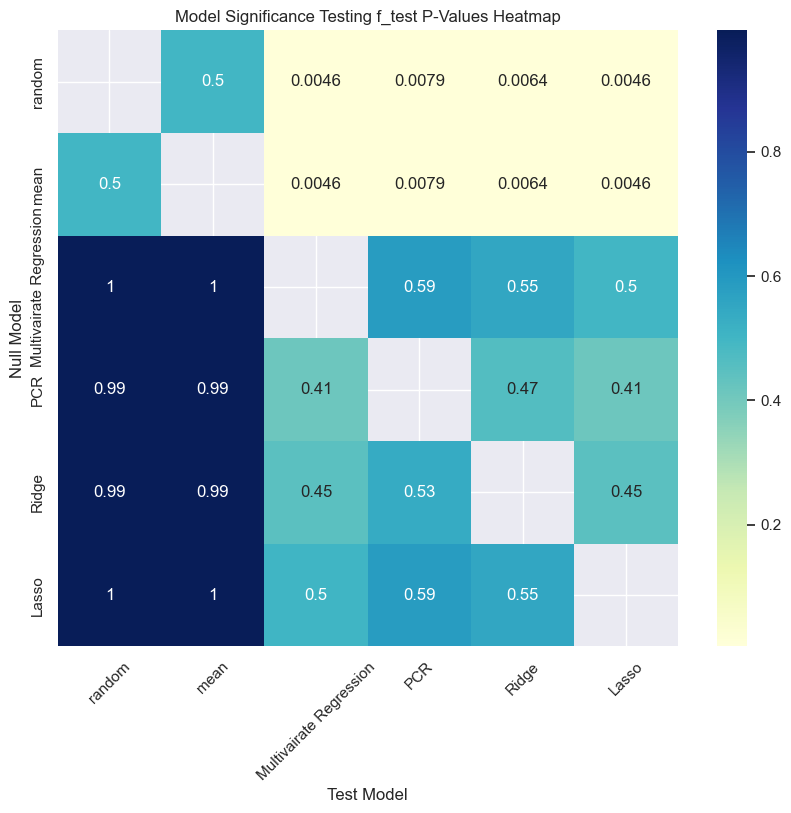
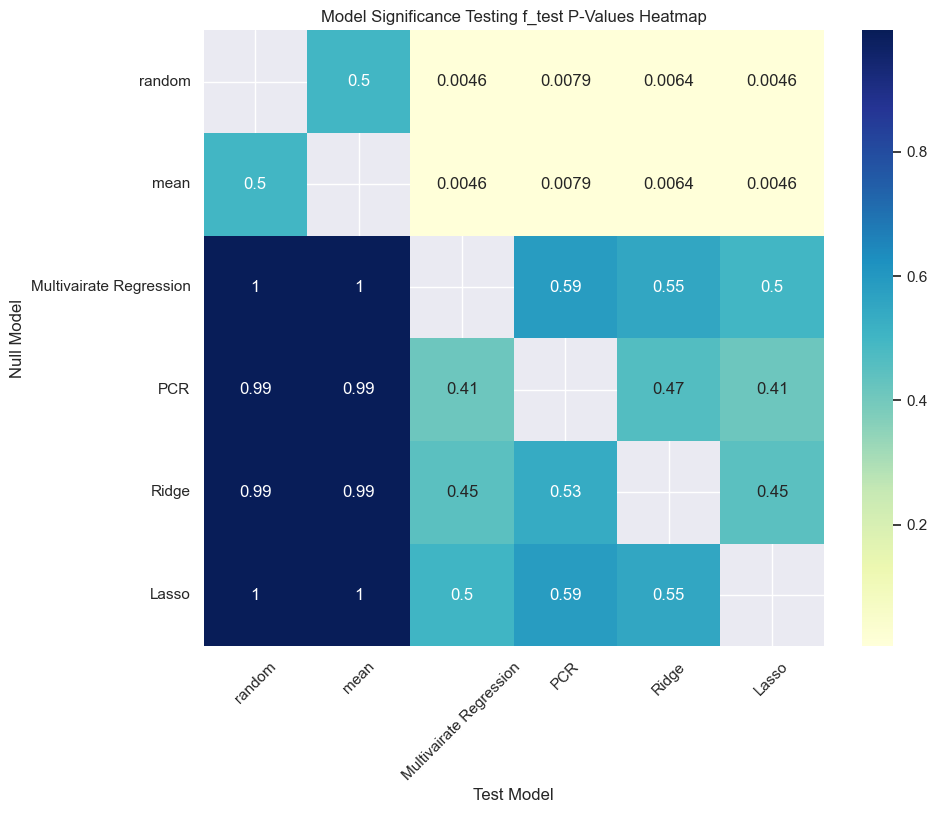
README updates

diff --git a/src/significanceTesting_utils.py b/src/significanceTesting_utils.py
@@ -97,7 +97,7 @@ def significanceTester(modelDict):
     sns.heatmap(p_val_df, cmap="YlGnBu", annot=True,)
     plt.title("Model Significance Testing f_test P-Values Heatmap")
     plt.xticks(rotation=45)
-    plt.yticks(rotation=90)
+    plt.yticks(rotation=0)
     plt.xlabel("Test Model")
     plt.ylabel("Null Model")
     plt.savefig('figs/model_significance_testing_p_vals.png', bbox_inches='tight')

diff --git a/README.md b/README.md
@@ -25,3 +25,380 @@
   * Global: https://www.sea-ex.com/trading/market.htm
   * Portland Fish Exchange: https://www.pfex.org/price-landing-tool/
   * NOAA Landings and Foreign Trade: https://www.fisheries.noaa.gov/foss/f?p=215:2:5473541341067
+
+
+___
+## Goal
+
+To determine if imports of groundfish from countries with fisheries in the Barents Sea impact the price of domestically landed Pollock in Maine. This inquiry is guided by the premise that recent restrictions, which decreased the catch limits for Cod and Haddock in the Barents Sea over the past four years, have had a positive impact on the market price of previously less desirable species like Pollock for Maine fishermen. The goal of our project is to determine what role, if any, the Barents Sea fishery plays in influencing market price for 
+Domestic Pollock in Maine. We set out to accomplish this task with the understanding that numerous trade and energy related variables are at play within the context of a complex global market.
+
+___
+## Approach
+
+Our approach is to perform a regression analysis on Domestic Pollock prices at the Portland Fish Exchange, incorporating the prices and quantities of various imported and domestic groundfish catches as inputs to the model. We use data provided by the Portland Fish Exchange and the NOAA Fisheries Database from 2014 to 2024. 
+
+___
+## Prep Data and Environment
+
+Run the following make commands to setup the environment and run the src/modeling_prep.py file. This file will access the data and perform additional EDA and preprocessing regression analysis. The Feature Matrix and Target Vector will be saved as CSV files. 
+
+```Make
+make                # environment
+make model_prep     # setup, fetch data, modeling prep
+```
+
+
+### Format Data for Modeling
+
+Data was imported from the NOAA Fisheries Database and the Portland Fish Exchange (PFE) and combined into a single  CSV file. Althought the NOAA data was reported daily, PFE data is reported monthly. For this reason, NOAA data was summarized as monthly reports. After importing basic preprocessing steps as seen in the EDA, the price information was adjusted for inflation.
+
+Data is accessed using the get_data() and preprocess_data() functions for eda_util.py. Documentation for these functions is included in EDA.md.
+
+```python
+    # get data
+    data = get_data()
+
+    # preprocess data
+    data = preprocess_data(data)
+```
+
+### Select Countries of Interest
+
+The data obtained from NOAA encompassed all imports from Europe. From this dataset, we selected countries with Barents Sea fisheries—namely Iceland, Norway, and Russia, and combined it with Domestic landings in Portland, Maine obtained from the Portland Fish Exchange.
+
+
+```python
+ data_filtered = data[data['Country'].isin(['USA', 'ICELAND', 'NORWAY', 'RUSSIAN FEDERATION'])]
+ ```
+
+### Create Pivot Tables
+
+The selected data was then formatted for regression analysis. Two pivot tables were created: one for quantity and the other for value, with table rows formatted as period indexes in the MM/YYYY format. The Portland Fish Exchange data, which reported monthly totals, served as the limiting factor in terms of the time scale. The columns in these tables represent the fish species and their origin (domestic versus imported). These two tables were subsequently merged into a single dataframe for further preprocessing.
+
+```python
+    ### Create Pivot Tables
+    # drop the 'Country' column
+    data_without_country = data_filtered.drop('Country', axis=1)
+
+    # create a unique identifier for each fish group by its import status
+    data_without_country['FishGroup_ImportStatusValue'] = np.where(data_without_country['Imported'] == 'Yes',
+                                                            data_without_country['FishGroup'] + "_Imported_USD",
+                                                            data_without_country['FishGroup'] + "_Domestic_USD")
+
+    # create a unique identifier for each fish group by its import status
+    data_without_country['FishGroup_ImportStatusAmount'] = np.where(data_without_country['Imported'] == 'Yes',
+                                                            data_without_country['FishGroup'] + "_Imported_Kilos",
+                                                            data_without_country['FishGroup'] + "_Domestic_Kilos")
+
+    # pivot the table to have dates as rows and the unique fish group import statuses as columns, with average prices as values
+    df_value = data_without_country.pivot_table(index='YYYY/MM', 
+                                                columns='FishGroup_ImportStatusValue', 
+                                                values='AvgPrice_per_Kilo',
+                                                aggfunc='mean')
+    # pivot the table to have dates as rows and the unique fish group import statuses as columns, with average prices as values
+    df_amount = data_without_country.pivot_table(index='YYYY/MM', 
+                                                columns='FishGroup_ImportStatusAmount', 
+                                                values='AmountSold_by_Kilo',
+                                                aggfunc='sum')
+```
+
+
+
+### Check Distribution of Features
+
+The feature columns were plotted as histograms to visually assess the distributions. 
+
+<img src="figs/value_dist.png" width=800>
+<img src="figs/amount_dist.png" width=800>
+
+### Transform Value Features
+
+The value columns appeared close to normally distributed. However, the quantity distributions appeared skewed so we implemented a log transformation to try to produce more normally distributed data. The results of that transformation can be seen below. 
+
+<img src="figs/amount_log_dist.png" width=800>
+
+### Set Time Frame
+
+We selected a timeframe of the 10 year period from 01/2014 to 01/2024. This timeframe was chosen to encompass all available data following the 2012 declaration of the Northeast Multispecies Groundfish Fishery as a fishery disaster area, which led to significant changes in Import trends. Our focus was specifically on trade and price dynamics from countries fishing in the Barents Sea within the post-2013 paradigm.
+
+```python
+    ### Set Time Frame
+    start_period = pd.Period('2014-01', freq='M')
+    end_period = pd.Period('2024-04', freq='M')
+    filtered_df_range = df_combined[(df_combined.index >= start_period) & (df_combined.index <= end_period)].copy()
+```
+
+### Drop NaN Values and Impute
+
+At this point the data included many NaN values that needed to be resolved before regression could be performed. We used the Missingno library to visually assess the ratio and distribution of NaN values within the dataset.  
+
+<img src="figs/missingness1.png" width=800>
+
+Some of the less relevant columns with a high number of NaN values where dropped completely. These included:
+
+['Hake_Imported_USD', 'Hake_Imported_Kilos', 'Redfish_Imported_USD', 'Redfish_Domestic_USD', 'Redfish_Domestic_Kilos', 'Redfish_Imported_Kilos']
+
+Since the main focus of our inquiry was on Haddock, Cod and Pollock, it did not seem necessary to keep these in the analysis with such a large percentage of NaN values.
+
+<img src="figs/missingness2.png" width=800>
+
+The Imported Pollock data also included NaN values, but these seemed more likely to have a strong bearing on our analysis. We visualized the distributions to insure a normal-like distrabution, then imputed the values using mean. 
+
+<img src="figs/dist_imputed_values.png" width=400><img src="" width=400>
+
+Lastly we eliminated any remaining rows with NaN values. 
+
+<img src="figs/missingness3.png" width=800>
+
+The final results was a Feature Matrix with 120 rows and 13 features, with each row represents one month over the past 10 years. Price data objects represent the mean price per kg for that month, and quantity data objects are the total of landing of imported fish for that month.
+
+### Visualize Data
+
+A quick visualization of the value and amount over time. 
+
+<img src="figs/data_viz_value.png" width=800>  
+
+
+<img src="figs/data_viz_amount.png" width=800>
+
+We can see an increase int he price of imported Cod and Haddock over the past two years with what appears to be the start of a downward trend in the volume of same. This could be indicators that our intial assumption that changes in Barents Sea fishing policy is impacting imports to Maine. The relation of these trends to Pollock prices is not clear from this visualization.
+ 
+
+Check for effects of seaonality with boxplots.
+
+<img src="figs/amount_boxplots.png" width=800>
+
+<img src="figs/value_boxplots.png" width=800>
+
+There is not clear impact of seaonality on price based on this plot. There may be some effect on volume, but the realtionship is not clear. 
+
+### Correlations and Pairplots
+
+Checking for correlation amoung the features. 
+
+<img src="figs/heatmap.png" width=800>
+
+There do appear to be some minor correlations between some of the features. At this point we will not drop any features from the analysis, but we will need to look into ways of account for potential covariances in the regression analysis. 
+
+<img src="figs/pairplots.png" width=800>
+
+
+### Scaling
+
+We utlilized scikit-learns Standard Scaler to normalize and mean center features prior to analysis. 
+
+
+### Export Feature Matrix and Target Vector		
+
+The feature matrix and target vector were saved as CSVs. 
+
+
+___
+## Modeling
+
+Run the following make command to run the src/modeling.py file. This file will run several regression analysis and return the results and plots. 
+
+```Make
+make modeling
+```
+
+### Statsmodel Summary
+
+Our first step was to generate a Statmodel Summary report for the Ordinary Least Square Regression of our Features Matrix (X) on the Target Vector (y). 
+
+<img src="figs/statmodel_summary.png" width=800>  
+
+\
+Explained Variance Ratio (R^2):
+
+
+$R^2 = 1 - \frac{{\sum_{i=1}^n (y_i - \hat{y}_i)^2}}{{\sum_{i=1}^n (y_i - \bar{y})^2}} = \frac{\text{Explained Sum of Squares}}{\text{Total Sum of Squares}} = 0.518$  
+
+This summary demonstates that the Oridnary Least Square regression model explains about 52% of the total variance in the domestic Pollock value. The Adjustred R-squared value indicates that some of our variables are not contributing to the overall score, since R-squared tends to increase with more features. 
+
+F-statistic and Prob (F-statistic):
+
+The F-statistic compares the regression model obtained to the null hypothesis (that domestic pollock prices are independent of the features) where the coeffecients of all variables are zero. The probability of the F-statistic gives the probability that the null hypothesis is true, given the the F-statistic. In this case, it is quite low indicating that the regression model is likely producing a signifigant result and will be a useful approach to pursue. 
+
+Coefficients:
+
+With p-value < 0.01:
+```Markdown
+==========================================================================================
+                             coef    std err          t      P>|t|      [0.025      0.975]
+------------------------------------------------------------------------------------------
+Cod_Imported_USD          -0.3615      0.127     -2.855      0.005      -0.612      -0.110
+Hake_Domestic_USD          0.4876      0.121      4.030      0.000       0.248       0.728
+Haddock_Imported_Kilos    -0.5231      0.128     -4.099      0.000      -0.776      -0.270
+Hake_Domestic_Kilos        0.4379      0.142      3.091      0.003       0.157       0.719
+Pollock_Domestic_Kilos    -0.8893      0.178     -5.002      0.000      -1.242      -0.537
+```
+Imported Cod and Haddock prices do seem to have a signifigant effect, as predicted, on Pollock prices. There are also several domestic factors that seem to be influencing pollock price. Not suprisingly, the amount of domestic Pollock caught has a signifigant negative impact on price. Based on this analysis it seems that Pollock_Domestic_Kilos has the strongest impact on our dependent variable.
+
+
+The plot of the residuals below shows a distribution of residuals that appears random. Again this is a good indicator that a linear model is good fit for this dataset. 
+
+<img src="figs/statsmodel_residuals.png" width=800>
+
+Our next steps will be to further investigate the relationship between X and y an dtry to find a regression model with the best possible predictive power as measured by explained varaince. To do so we will look at univariate, multivariate, and PCR regressions. Additonaly, we will try LASSO and Ridge Regresion model to better gernalize the model by regularizing the coeffecients.
+
+### Univariate Regression
+
+Next step is to compute the univariate regression for all features in our dataset. 
+
+<img src="figs/univariate_r2_values.png" width=800>
+
+We can select and look at the regression line and residual plot for all features that had a signifigant p-value:
+
+<img src="figs/univariate_Cod_Imported_USD.png" width=800>
+<img src="figs/univariate_Haddock_Imported_Kilos.png" width=800> 
+<img src="univariate_Hake_Domestic_Kilos.png" width=800>
+<img src="figs/univariate_Hake_Domestic_USD.png" width=800>
+<img src="figs/univariate_Pollock_Domestic_Kilos.png" width=800>
+
+Visually there apear to be a high degree of bias in some cases. For example, the regression for Haddock_Imported_Kilos might be better represented with a polynmial regression. Since we are less concerned with individual relationships we will move on to try to improve the multivariate regression.   
+
+
+### Multivariate Regression
+
+Mutivariate Regression using scikit-learn with train test split. 
+
+Results:
+
+```Markdown
+MULTIVARIATE REGRESSIONS
+R-squared: 0.5823919767940072
+Mean Squared Error: 0.9472081346425588
+Intercept: [4.92655315]
+```
+
+The explained variance ratio is somewhat improved over the intial statmdodel estimate. Interestingly, this model perfomed better on the test data than on the trianing data. 
+
+<img src="figs/multi_reg_result.png" width=800>
+
+<img src="figs/mulit_reg_coefs.png" width=800>
+
+<img src="figs/mulit_reg_residuals.png" width=600>
+
+
+### PCR
+
+Since we have 13 features attempting some dimensionality reduction is another possible avenue for improving our regression analysis. In this analysis we performed a Principle Component Regression, using a gridsearch with cross-validation over the number of components.
+
+**Results:**
+```Markdown
+PRINCIPAL COMPONENT REGRESSION
+R-squared: 0.5221034655154911
+Mean Squared Error: 1.0839530368838926
+Intercept: [4.89311077]
+Best Parameters: {'pca__n_components': 11}
+```
+
+<img src="figs/PCR_explained_variance.png" width=800>
+
+Performing a gridsearch over the value of n_components failed to produce a low dimensional embedding of the data that retains most of the variance. Based on this model, the variance if distributed across the feature space. 
+
+**Grid Search over n_components with 5 Fold Cross Validation**  
+
+<img src="figs/PCR_text_train.png" width=600>
+
+The gridsearch found the max mean cross validation score with 11 components. 
+
+
+### Ridge
+
+THe Ridge regression performs shrinkage by reducing the impact of low performing variables on the result. It does so by applying a penalty term $(\lambda)$. THe value of the penality is determined by the alpha, over which we will perform a gridsearch with cross validation, to find the best performing valu eof alpha. A valu eof 0 indicates no shrinkage of the coefficients. As the alpha increase so doe sthe amount of shrinkage or regularization. 
+
+Object Function for Ridge:
+
+$ \text{minimize} \left( \frac{1}{2n} \sum_{i=1}^{n} (y_i - \beta_0 - \sum_{j=1}^{p} \beta_j x_{ij})^2 + \lambda \sum_{j=1}^{p} \beta_j^2 \right) $
+
+where:
+
+- $(n)$ is the number of samples,
+- $(p)$ is the number of features,
+- $(y_i)$ is the target value for the $(i)$th sample,
+- $(x_{ij})$ is the value of the $(j)$th feature for the $(i)$th sample,
+- $(\beta_0, \beta_1, \ldots, \beta_p)$ are the coefficients,
+- $(\lambda)$ is the regularization parameter.
+
+
+**Results:**
+```Markdown
+RIDGE REGRESSION
+Best alpha: 16.357378899298137
+Mean Squared Error with best alpha: 1.026846438709015
+R-squared: 0.5472807974065743
+```
+
+<img src="figs/ridge_coef.png" width=800>
+
+**Grid Search over Alpha with 5 Fold Cross Validation**  
+
+<img src="figs/ridge_text_train.png" width=600>
+
+The gridsearch found the max mean cross validation score with with a regularization parameter (alpha) of ~16.357. Based on the non-zero alpha we can see that the regularization technique is having an impact. The explained variance of the model is not improved in terms of it's genralization to test data. 
+
+
+
+### Lasso
+
+Since we have some features that are likely not contributing to the explained varaince, A LASSO regression might provide a better result as its regularization parameter can reduce these coefficients to zero. This should reduce the impact of covariance on the model. 
+
+Objective Function fo LASSO:
+
+$ \text{minimize} \left( \frac{1}{2n} \sum_{i=1}^{n} (y_i - \beta_0 - \sum_{j=1}^{p} \beta_j x_{ij})^2 + \lambda \sum_{j=1}^{p} |\beta_j| \right) $
+
+where:
+
+- $(n)$ is the number of samples,
+- $(p)$ is the number of features,
+- $(y_i)$ is the target value for the $(i)$th sample,
+- $(x_{ij})$ is the value of the $(j)$th feature for the $(i)$th sample,
+- $(\beta_0, \beta_1, \ldots, \beta_p)$ are the coefficients,
+- $(\lambda)$ is the regularization parameter.
+
+**Results:**
+```Markdown
+LASSO REGRESSION
+Best alpha: 0.05898896425508499
+Mean Squared Error with best alpha: 0.9471284759470703
+R-squared: 0.5824270969636274
+```
+
+These reults are the same as the mutlivariate regression, suggesting that that is not a high enough degree of colinearity for LASSO to penalize any feature enough to reduce the coeficient to zero. 
+
+
+<img src="figs/lasso_coef.png" width=800>
+
+**Grid Search over Alpha with 5 Fold Cross Validation**  
+
+<img src="figs/lasso_text_train.png" width=600>
+
+The gridsearch found the max mean cross validation score with with a regularization parameter (alpha) of ~0.0590. 
+
+
+___
+## Signifigance Testing
+
+<img src="figs/model_significance_testing_p_vals.png" width=800>
+
+Significance Testing was done using p_values of F-Tests of the models against each other and a 'random' model we made based on normal distribution of data. Results we failed to reject there was a significant difference between any model we constructed but they were all significantly better then
+an informed random guess.
+
+Would love some commentary on here on if and how we can improve? Finding a null hypothesis for predictions seems difficult?
+
+
+___
+## Results
+
+Our best model's returned an explained variance ratio of ~0.58. Due to the complexity of market factors impacting price of Pollock, this seems to be a reasonable result. It is clear that there are many features not included in our data set that are influencing price - as anticipated.  
+
+The price of 
+
+___
+## Next Steps
+___ 
+## Acknowledgements
+
